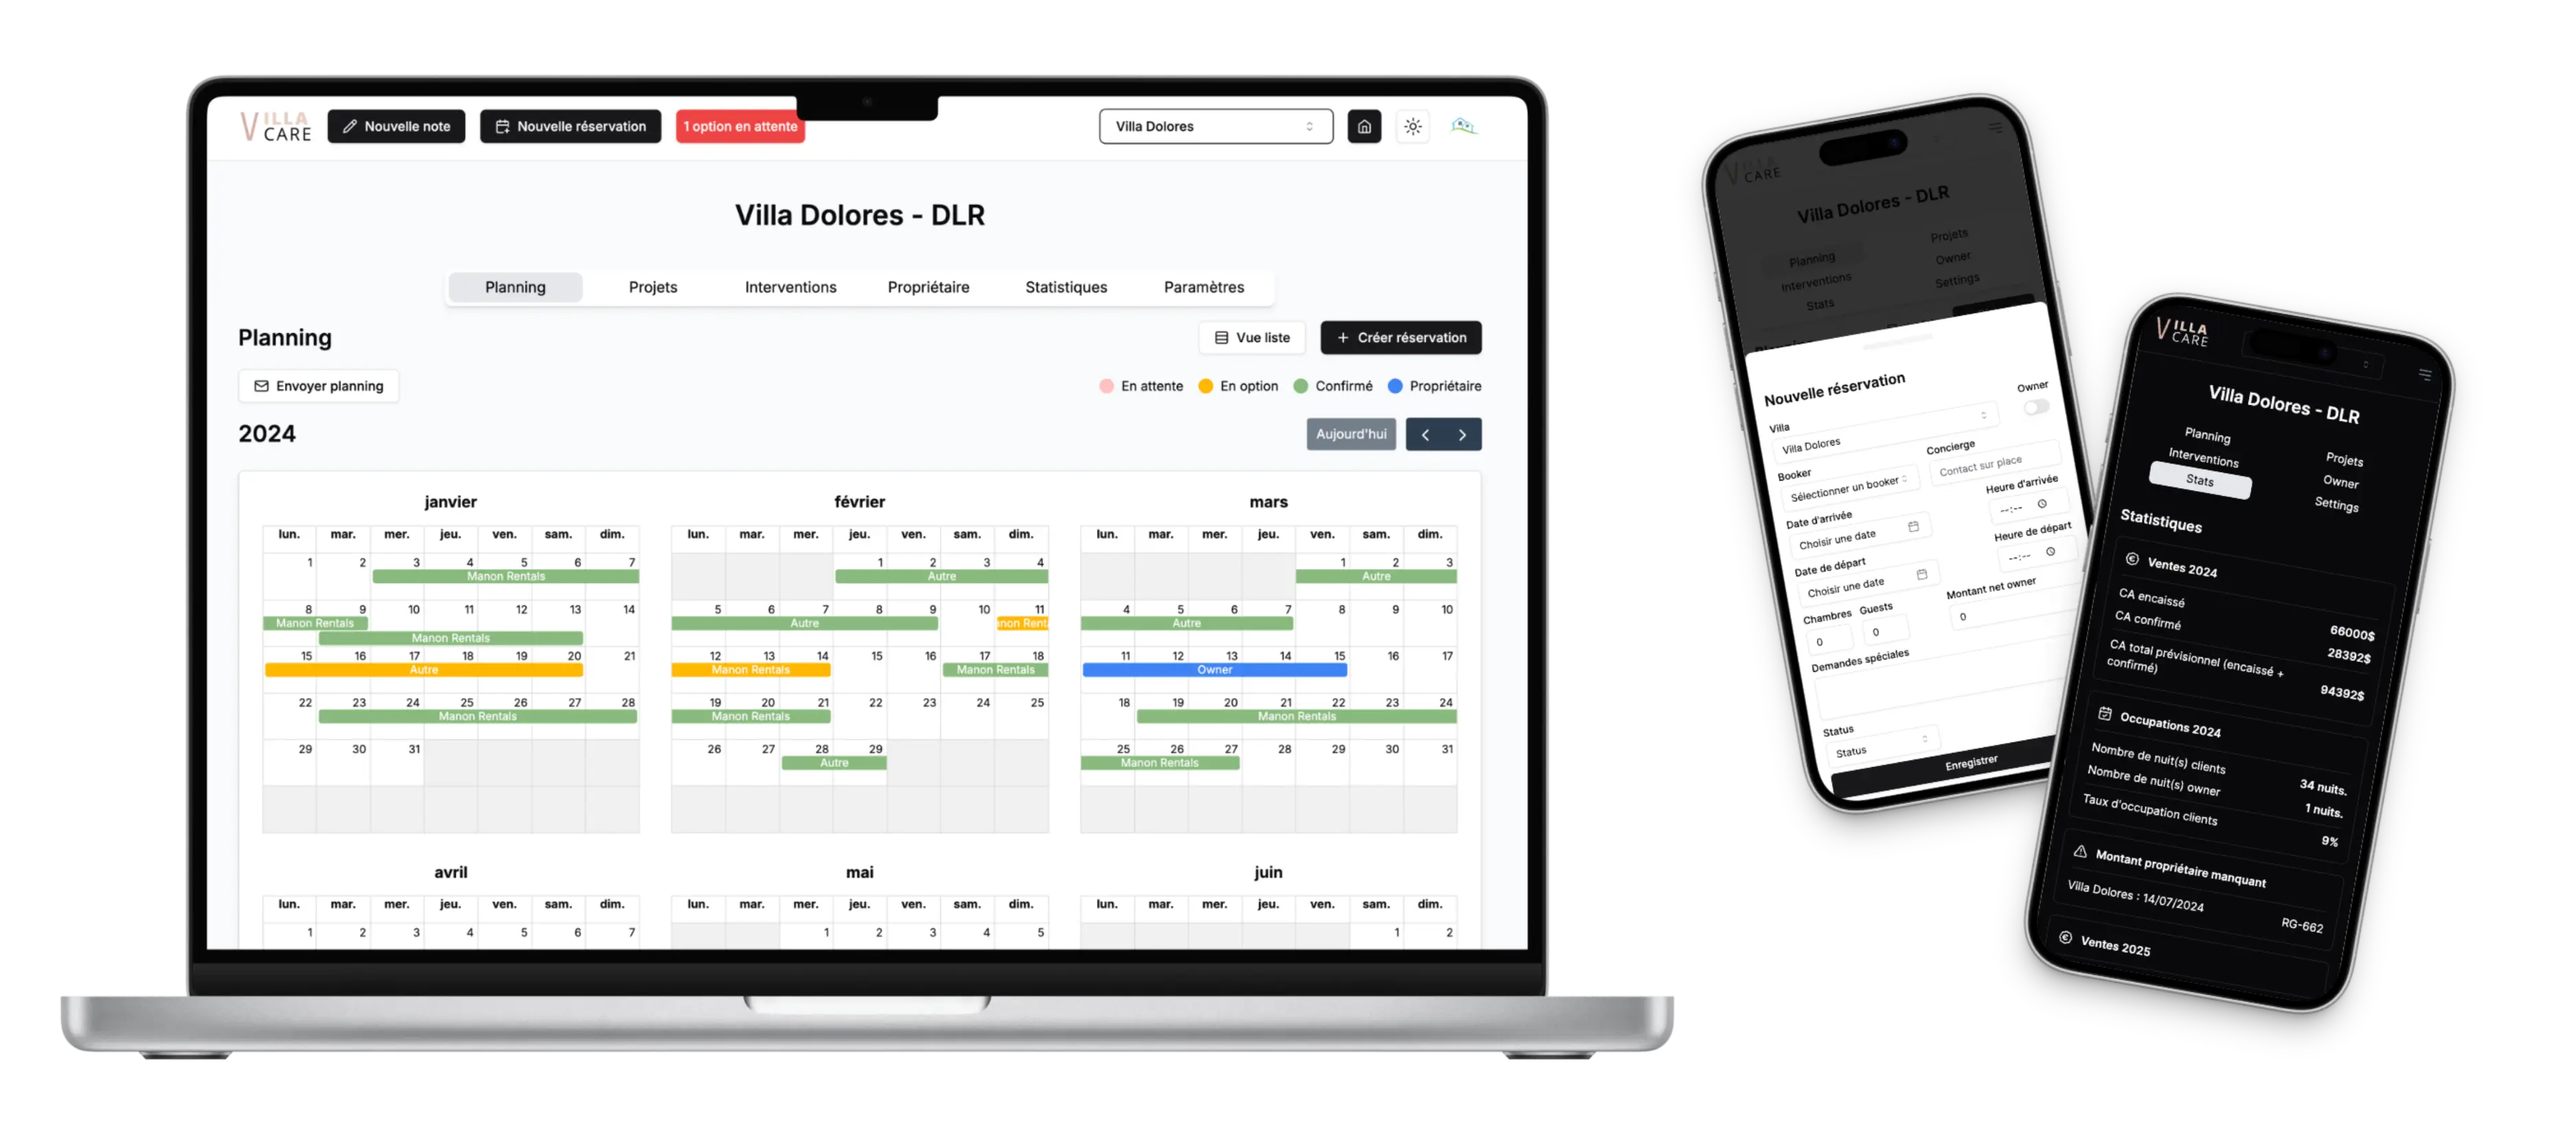
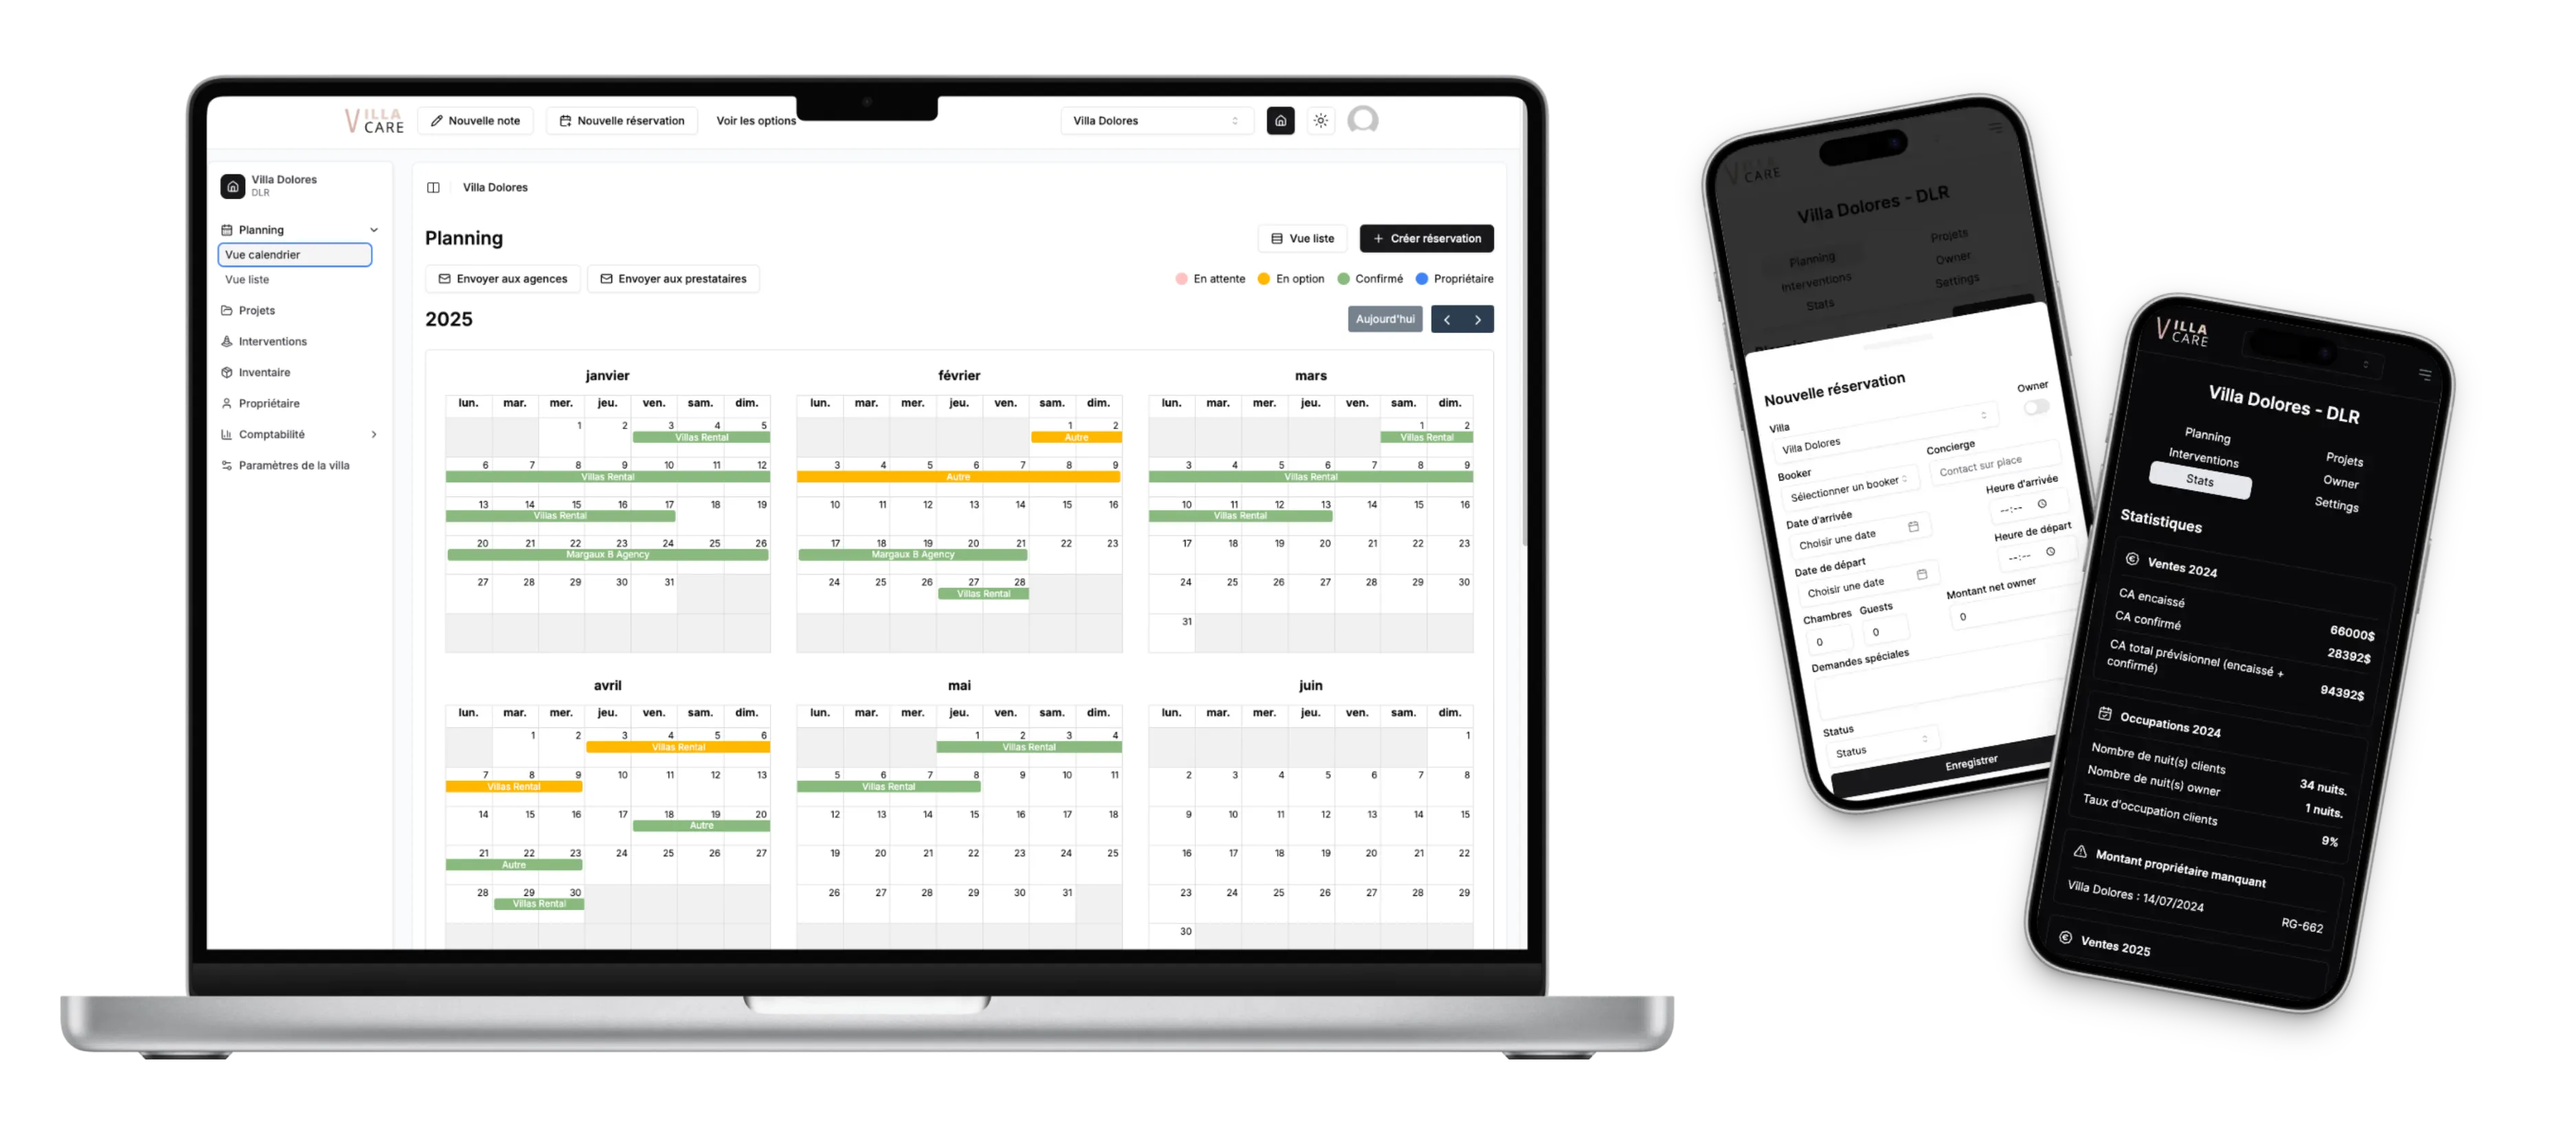
feat: update villa care project

diff --git a/datas/projects.tsx b/datas/projects.tsx
@@ -6,17 +6,23 @@ import { Testimonial, testimonials } from './testimonials'
 
 import artiziaMainScreen from '@/public/projects/artizia/artizia-fwi-main-screen.webp'
 import FWImainScreen from '@/public/projects/fwi/frip-west-indies-main-screen.webp'
+import VCbooking from '@/public/projects/villacare/booking.webp'
+import VCinventory from '@/public/projects/villacare/inventory.webp'
+import VCinvoices from '@/public/projects/villacare/invoices.webp'
 import VCmainProject from '@/public/projects/villacare/main-project-villa-care.webp'
 import VCmainScreen from '@/public/projects/villacare/main-screen-villa-care.webp'
-import VC1 from '@/public/projects/villacare/villa-care-1.webp'
+import VCmonthlyreport from '@/public/projects/villacare/monthly-report.webp'
+import VCproject from '@/public/projects/villacare/project.webp'
+import VCsettings from '@/public/projects/villacare/villa-settings.webp'
+
 import VC2 from '@/public/projects/villacare/villa-care-2.webp'
 import VC6 from '@/public/projects/villacare/villa-care-6.webp'
 
 import { ProcessStep } from '@/components/project-page/ProcessStep'
+import { AccountingCard } from '@/components/projects/villa-care/AccountingCard'
 import { AutomationCard } from '@/components/projects/villa-care/AutomationCard'
 import { CompactDarkModeCard } from '@/components/projects/villa-care/CompactDarkModeCard'
 import { CompactLanguageCard } from '@/components/projects/villa-care/CompactLanguageCard'
-import { AccountingCard } from '@/components/projects/villa-care/AccountingCard'
 import { PlanningCard } from '@/components/projects/villa-care/PlanningCard'
 import { StatisticsCard } from '@/components/projects/villa-care/StatisticsCard'
 import { WorkspacesCard } from '@/components/projects/villa-care/WorkspacesCard'
@@ -78,7 +84,17 @@ export const projects: Projects[] = [
 
     mainImage: VCmainScreen,
     mainProjectImage: VCmainProject,
-    carouselImages: [VC1, VC2, VC6],
+    carouselImages: [
+      VC2,
+      VCmainScreen,
+      VCbooking,
+      VCinventory,
+      VCinvoices,
+      VCmonthlyreport,
+      VCproject,
+      VCsettings,
+      VC6,
+    ],
     location: 'Saint-Barthélemy',
     bentoItems: [
       <PlanningCard key="1" />,
@@ -99,13 +115,13 @@ export const projects: Projects[] = [
       {
         name: 'Automatisations.',
         description:
-          "Envois automatiques des plannings, des confirmations de réservations, des nouvelles demandes, des rappels d'informations manquantes...",
+          "Envois auto des plannings, des confirmations, des nouvelles demandes, des rappels d'informations manquantes, etc.",
         icon: 'mail',
       },
       {
-        name: 'Statistiques.',
+        name: 'Comptabilité.',
         description:
-          "Analyse des performances des biens, des revenus et des taux d'occupation.",
+          'Gestion complète de la facturation, rapports mensuels et annuels, export Excel, statistiques pour une comptabilité simplifiée.',
         icon: 'stats',
       },
       {
@@ -113,12 +129,6 @@ export const projects: Projects[] = [
         description:
           "Différents espaces et niveaux d'accès pour les propriétaires, les managers, les employés, les agences de locations.",
         icon: 'users',
-      },
-      {
-        name: 'Comptabilité.',
-        description:
-          "Gestion complète de la facturation, rapports mensuels et annuels, export Excel pour une comptabilité simplifiée.",
-        icon: 'calculator',
       },
     ],
     stack: [
